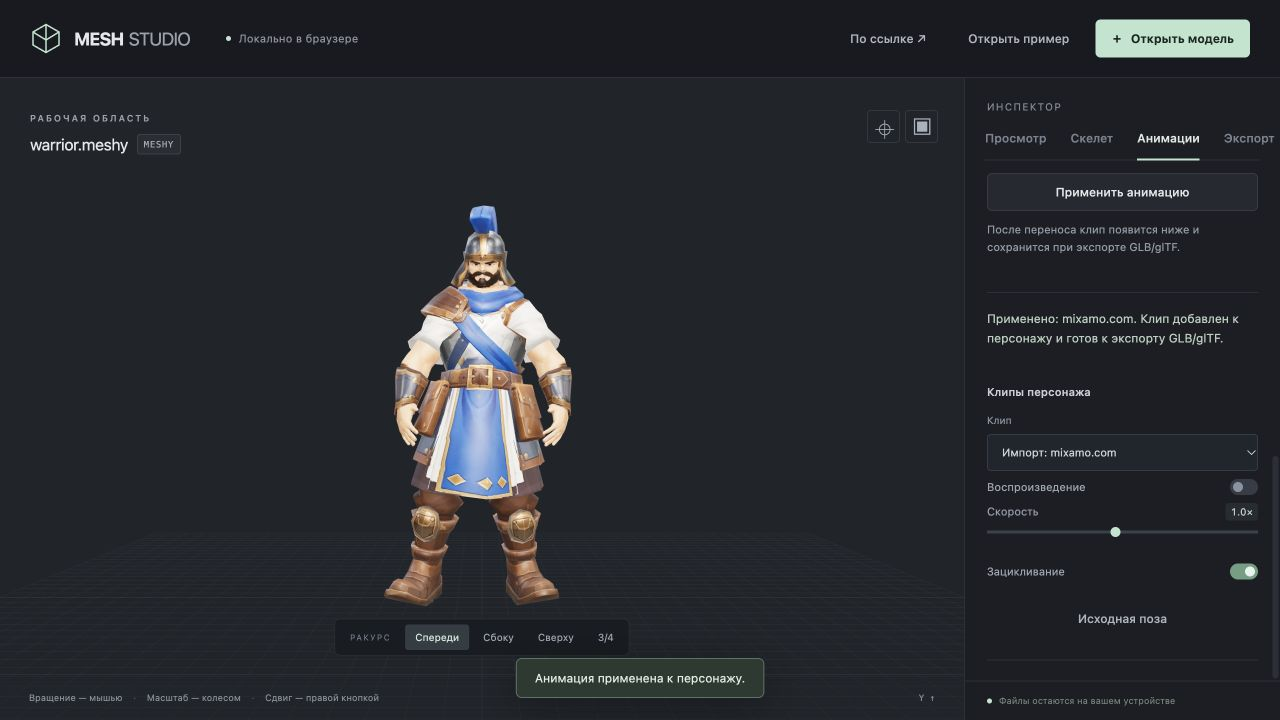
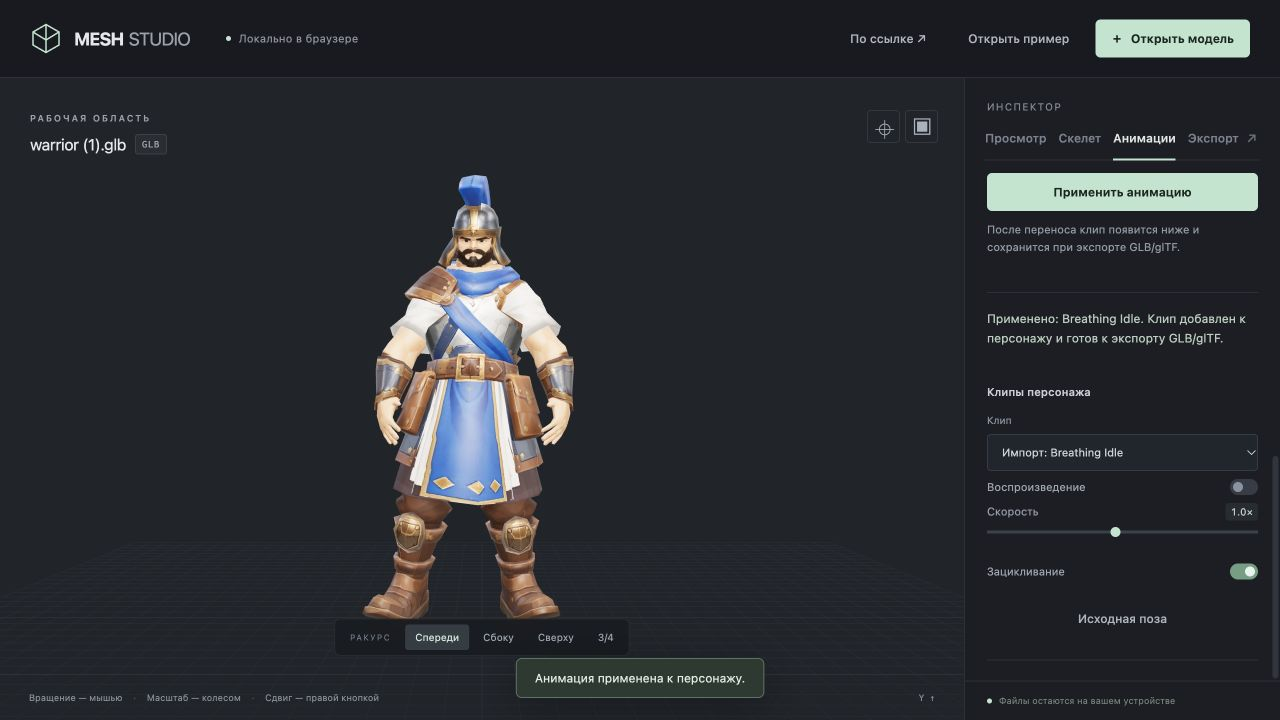
fix(meshy): distinguish separately imported Mixamo FBX clips

diff --git a/apps/web/meshy/src/animation-loader.js b/apps/web/meshy/src/animation-loader.js
@@ -50,6 +50,12 @@ export async function loadAnimationFiles(fileList, { resources = new Map() } = {
     if (extension === "fbx") {
       root = new FBXLoader(manager).parse(buffer, "");
       animations = root.animations;
+      // Mixamo FBX files often all call their single take "mixamo.com".
+      // File names keep separately imported actions distinct in the target catalogue.
+      const base = file.name.replace(/\.fbx$/i, "");
+      animations.forEach((clip, i) => {
+        clip.name = animations.length === 1 ? base : `${base} · ${clip.name || i + 1}`;
+      });
     } else {
       const gltf = await new GLTFLoader(manager)
         .setMeshoptDecoder(MeshoptDecoder)
